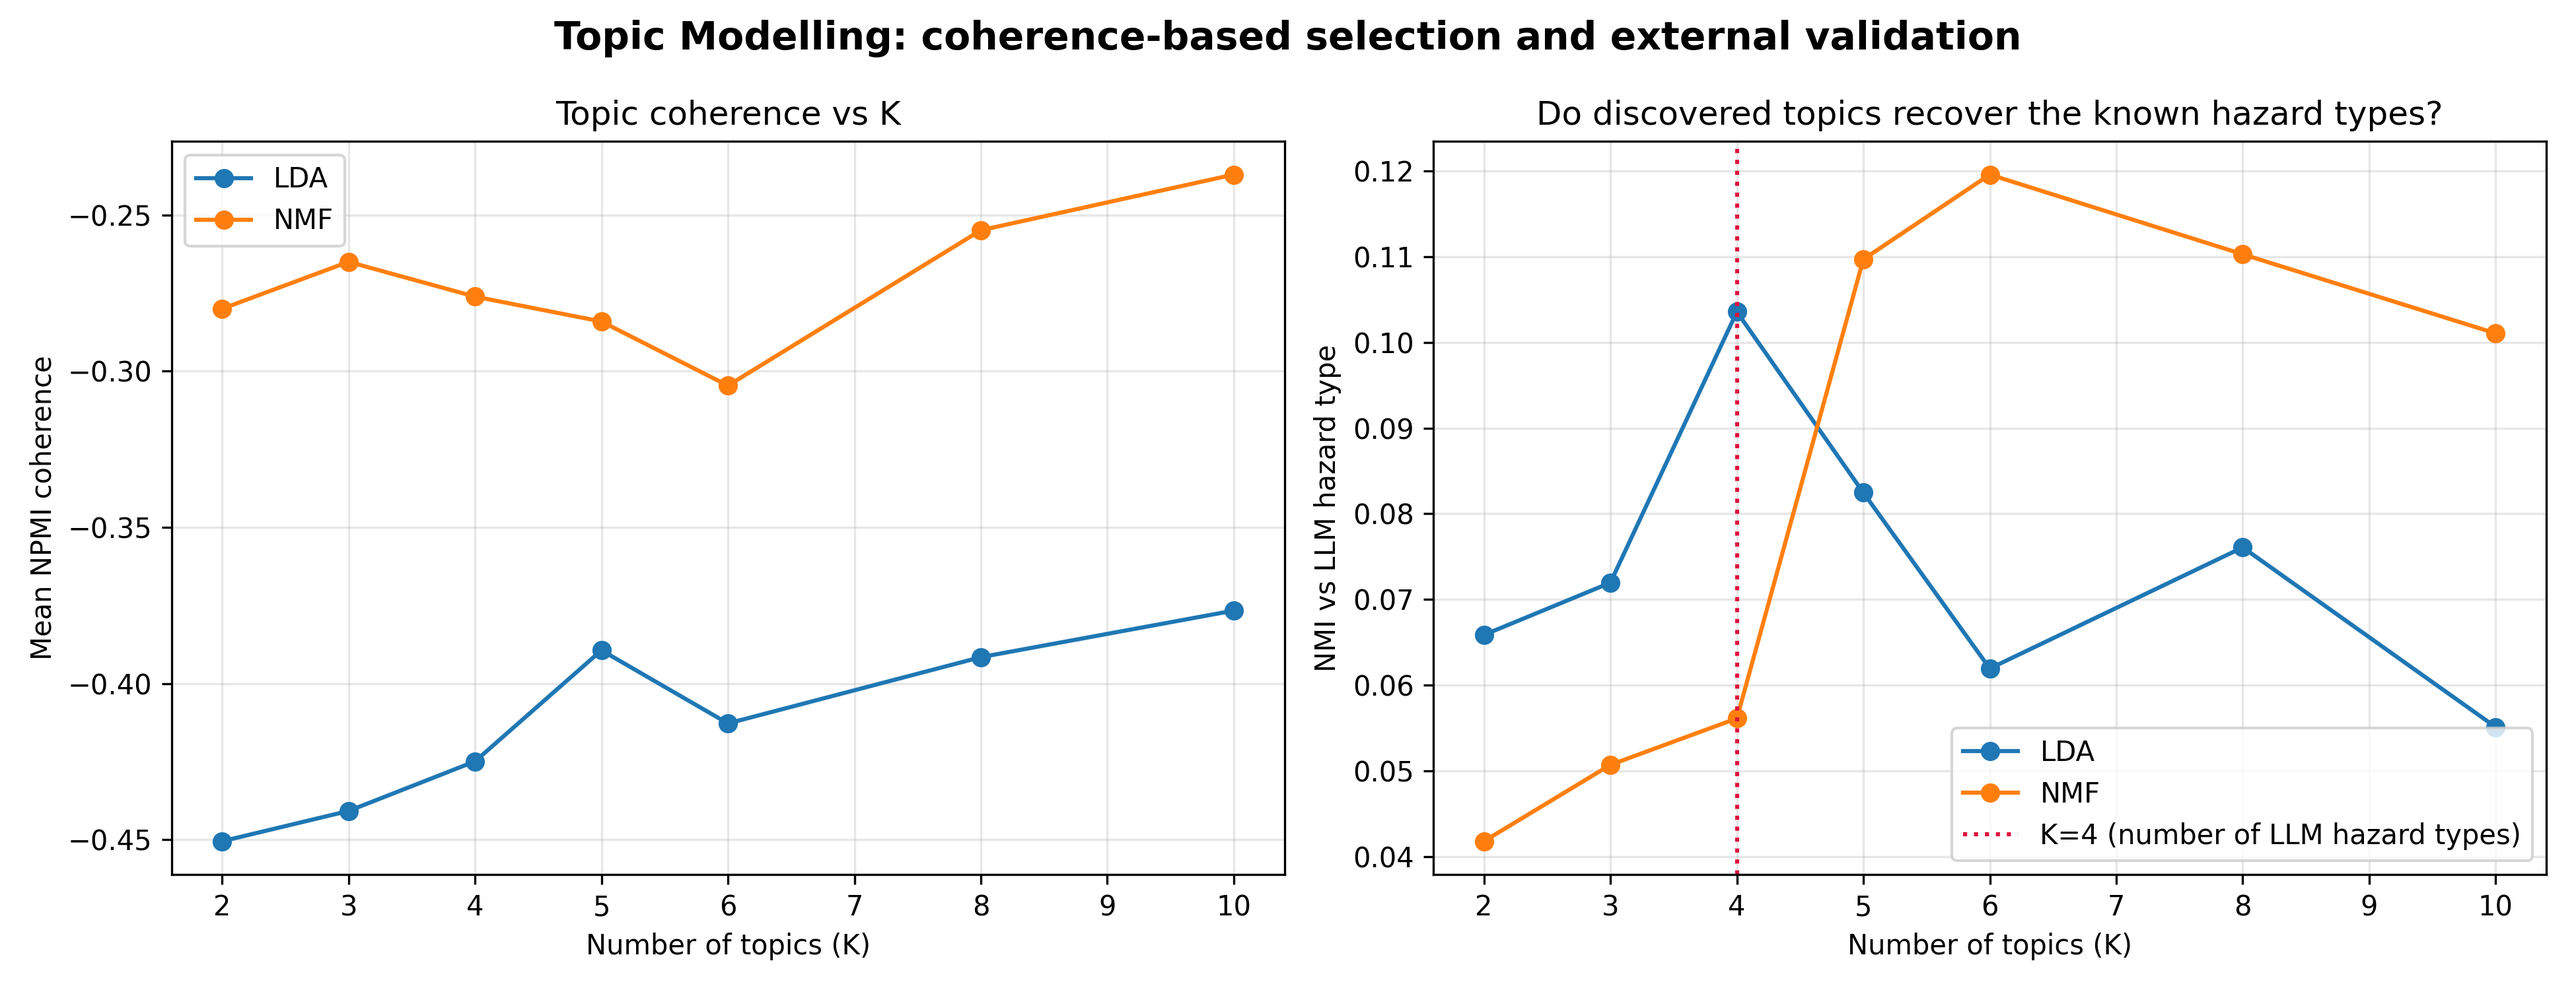
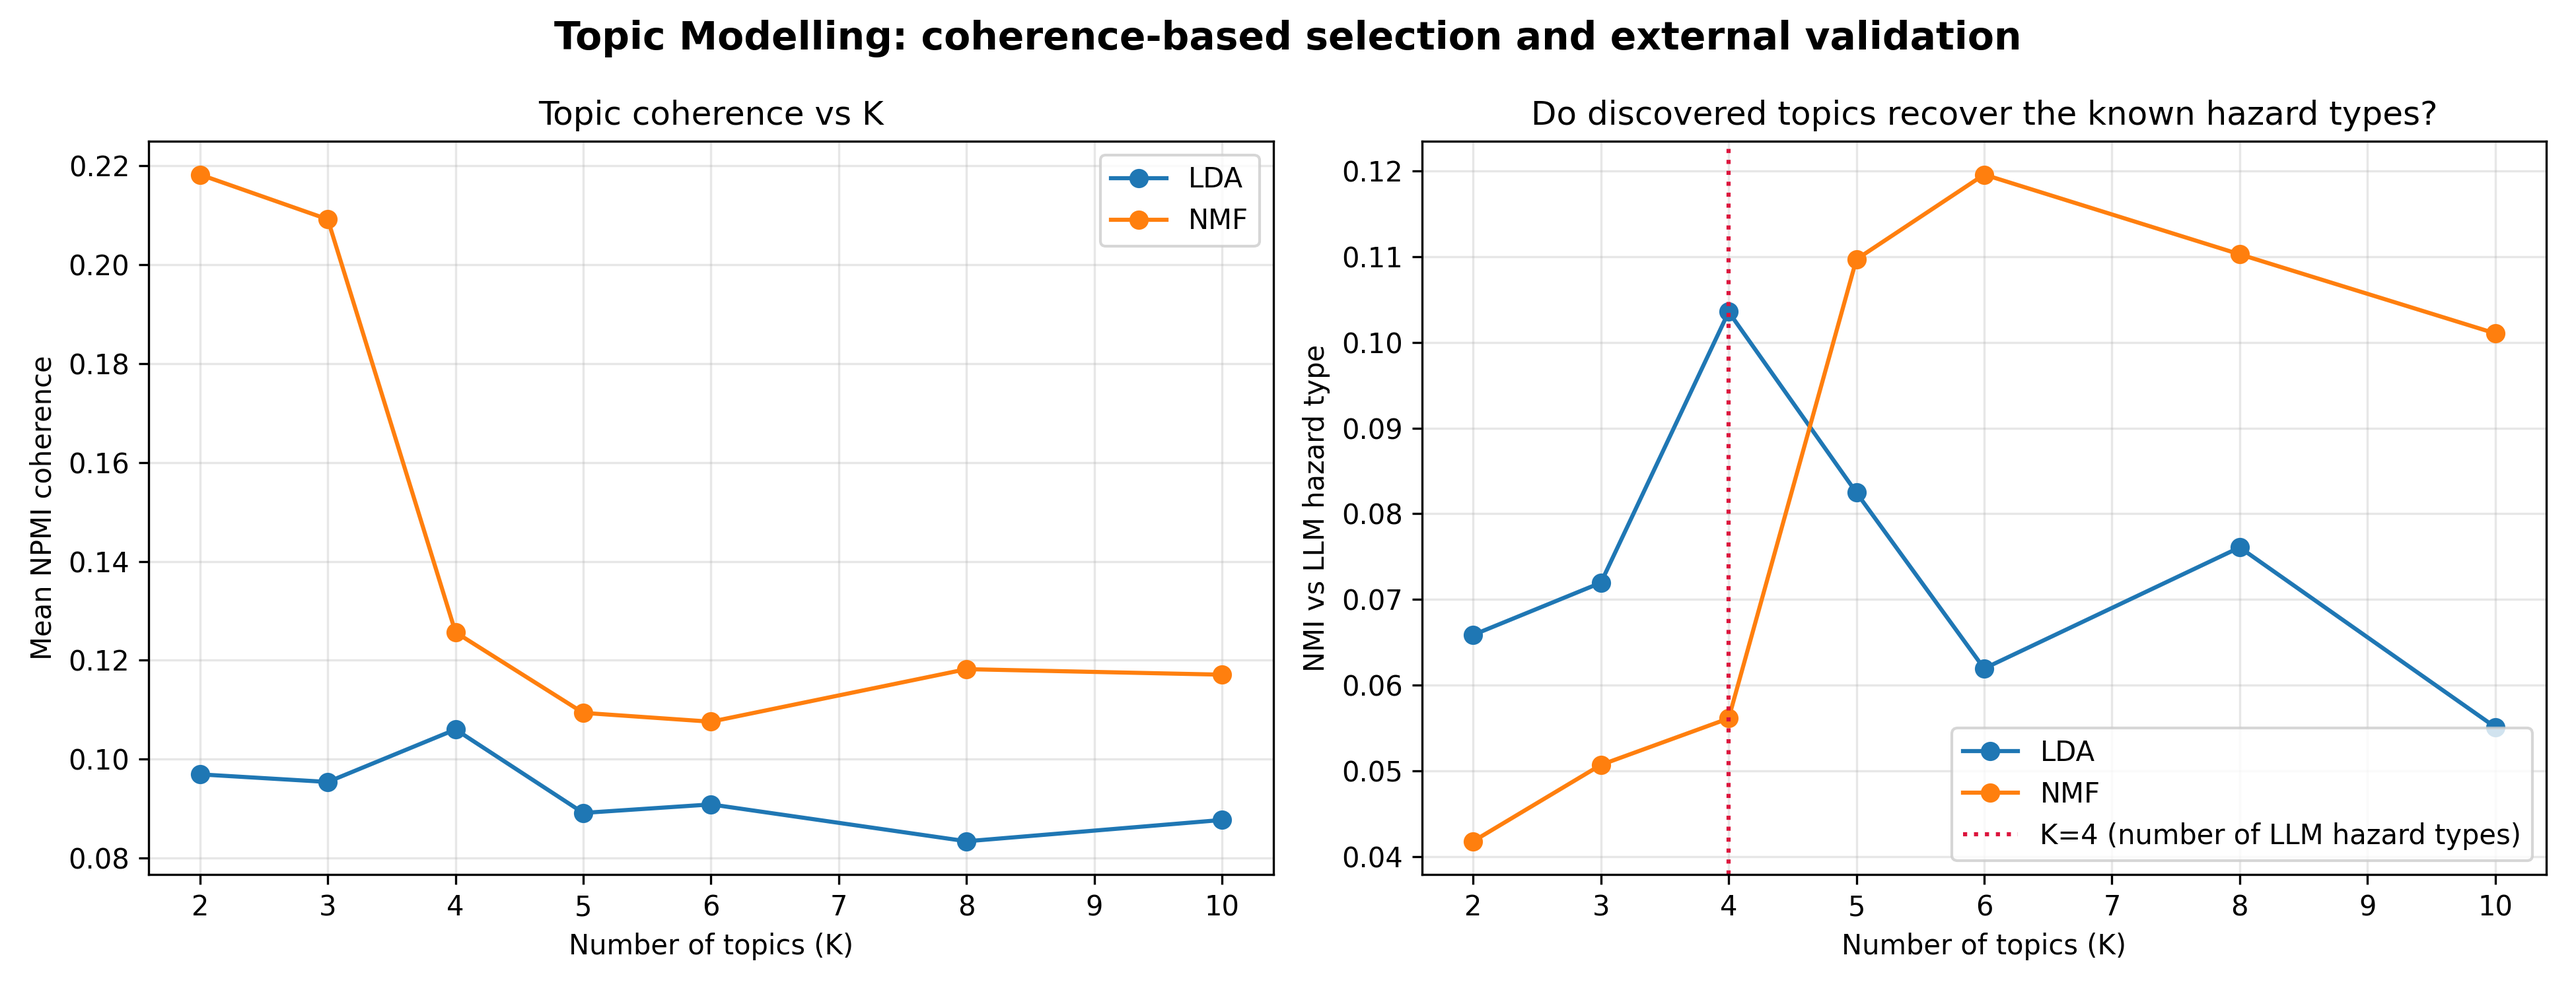
Refactor data loading and validation split handling; update model training to use validation data for checkpoint selection

diff --git a/src/sota_model.py b/src/sota_model.py
@@ -123,12 +123,18 @@ def load_tokenizer(model_nm="microsoft/deberta-v3-base"):
 
 def run_sota_training(train_df, test_df, epochs=3, lr=2e-5, batch_size=8,
                       asymmetric_weight=None, loss_variant=None, gamma=None,
-                      return_tokenized=False):
+                      return_tokenized=False, eval_df=None):
     """
     Fine-tunes DeBERTa-v3 with the asymmetric safety loss.
 
     Checkpoint selection uses cfg.CHECKPOINT_METRIC (F2), not recall — recall alone
     is maximised by predicting every review a hazard.
+
+    `eval_df` is the split used for checkpoint selection (and whatever
+    `trainer.evaluate()` scores afterwards). Pass the validation split here so the
+    test split stays out of every selection decision. If None, falls back to
+    `test_df` — which makes the test-split numbers selection-biased ("in-selection")
+    and should only be used for quick experiments, never reported results.
     """
     if asymmetric_weight is None:
         asymmetric_weight = cfg.ASYMMETRIC_WEIGHT
@@ -145,8 +151,13 @@ def run_sota_training(train_df, test_df, epochs=3, lr=2e-5, batch_size=8,
     model = AutoModelForSequenceClassification.from_pretrained(model_nm, num_labels=1)
     model.to(cfg.DEVICE)
 
+    if eval_df is None:
+        print("    [warn] no eval_df given — checkpoint selection will use the TEST "
+              "split, making its numbers in-selection. Pass the validation split.")
+        eval_df = test_df
+
     train_tokenized = tokenize_split(train_df, tokenizer)
-    test_tokenized = tokenize_split(test_df, tokenizer)
+    eval_tokenized = tokenize_split(eval_df, tokenizer)
 
     # Micro-batching: keep the effective batch at `batch_size` while capping the
     # per-device batch at 4 so activations fit on MPS.
@@ -177,7 +188,7 @@ def run_sota_training(train_df, test_df, epochs=3, lr=2e-5, batch_size=8,
         model=model,
         args=training_args,
         train_dataset=train_tokenized,
-        eval_dataset=test_tokenized,
+        eval_dataset=eval_tokenized,
         compute_metrics=compute_metrics,
         asymmetric_weight=asymmetric_weight,
         loss_variant=loss_variant,
@@ -188,6 +199,10 @@ def run_sota_training(train_df, test_df, epochs=3, lr=2e-5, batch_size=8,
     trainer.train()
 
     if return_tokenized:
+        # The reporting split is always test_df, tokenized separately from the
+        # eval split so downstream evaluation never accidentally scores validation.
+        test_tokenized = tokenize_split(test_df, tokenizer) if eval_df is not test_df \
+            else eval_tokenized
         return trainer, tokenizer, test_tokenized
     return trainer
 

diff --git a/src/topic_model.py b/src/topic_model.py
@@ -177,7 +177,9 @@ def fit_one(texts, k, algo, count_vec, tfidf_vec, X_count, X_tfidf, random_state
         )
         doc_topic = model.fit_transform(X_count)
         features = count_vec.get_feature_names_out()
-        coherence_matrix = (X_count > 0)
+        # int cast is load-bearing: on a boolean sparse matrix, cols.T @ cols
+        # saturates every co-occurrence count at 1, which silently corrupts NPMI.
+        coherence_matrix = (X_count > 0).astype(np.int32)
     else:
         model = NMF(
             n_components=k, random_state=random_state,
@@ -187,7 +189,8 @@ def fit_one(texts, k, algo, count_vec, tfidf_vec, X_count, X_tfidf, random_state
         features = tfidf_vec.get_feature_names_out()
         # Coherence is always measured on the count matrix so LDA and NMF are
         # scored on the same footing; vocabularies are shared by construction.
-        coherence_matrix = (X_count > 0)
+        # Same int cast as the LDA branch — boolean matmul saturates at 1.
+        coherence_matrix = (X_count > 0).astype(np.int32)
 
     tw = top_words(model, features)
     coherences = [npmi_coherence(t["indices"], coherence_matrix) for t in tw]
@@ -283,12 +286,12 @@ def run_topic_modeling(k_values=DEFAULT_K_VALUES, output_dir=None, algos=("lda",
     sweep.to_csv(os.path.join(output_dir, "topic_model_sweep.csv"), index=False)
 
     # ---- Winner per algorithm ---------------------------------------------
-    # NPMI coherence tends to rise monotonically with K, so selecting on it alone
-    # just picks the largest K on offer. Degenerate fits (one topic swallowing most
-    # of the corpus) are excluded first, and the coherence-selected and
-    # validation-selected winners are both reported when they disagree — that
-    # disagreement is itself evidence about how far unsupervised coherence can be
-    # trusted as a model-selection criterion.
+    # Coherence alone cannot be trusted as the selection criterion: NMF's highest
+    # coherence sits at K=2, a degenerate fit where one topic holds 95% of the
+    # corpus (few tight topics are "coherent" even when they carry no structure).
+    # Degenerate fits (one topic swallowing most of the corpus) are excluded first,
+    # and the coherence-selected and validation-selected winners are both reported
+    # when they disagree — for LDA they agree on K=4, which is itself a finding.
     detail_frames, crosstabs, lift_frames = [], {}, []
     for algo in algos:
         grp = sweep[sweep.algorithm == algo.upper()]

diff --git a/src/data_pipeline.py b/src/data_pipeline.py
@@ -7,10 +7,18 @@ import config.settings as cfg
 from src.features import enrich
 
 
-def load_and_split_data():
+def load_and_split_data(with_validation=False):
     """
-    Loads the enriched dataset and creates reproducible train/test splits
-    for both tabular and textual structures.
+    Loads the enriched dataset and creates reproducible splits.
+
+    Default: (train, test) — unchanged from the original two-way split.
+
+    `with_validation=True`: (train, val, test). The validation split is carved out
+    of the train split *after* the test split, so the test split is byte-identical
+    in both modes (and identical to the historical one — everything documented about
+    which gold rows fall in the test split still holds). Validation is what
+    checkpoint selection and hyperparameter search are allowed to see; the test
+    split is reserved for reporting only.
     """
     resolved_path = os.path.abspath(cfg.INPUT_DATA_PATH)
     print(f"Resolved absolute path: {resolved_path}")
@@ -28,8 +36,20 @@ def load_and_split_data():
         stratify=df[cfg.TARGET_COLUMN]
     )
 
-    print(f"Data split successfully. Train Size: {len(train_df)} | Test Size: {len(test_df)}")
-    return train_df, test_df
+    if not with_validation:
+        print(f"Data split successfully. Train Size: {len(train_df)} | Test Size: {len(test_df)}")
+        return train_df, test_df
+
+    train_df, val_df = train_test_split(
+        train_df,
+        test_size=cfg.VAL_SIZE,
+        random_state=cfg.RANDOM_STATE,
+        stratify=train_df[cfg.TARGET_COLUMN]
+    )
+
+    print(f"Data split successfully. Train Size: {len(train_df)} | "
+          f"Val Size: {len(val_df)} | Test Size: {len(test_df)}")
+    return train_df, val_df, test_df
 
 
 def load_gold_holdout(path=None, require=True):

diff --git a/main.py b/main.py
@@ -24,8 +24,10 @@ def main():
 
     os.makedirs(cfg.RESULTS_DIR, exist_ok=True)
 
-    # Load and partition dataset
-    train_df, test_df = load_and_split_data()
+    # Load and partition dataset. The validation split is what checkpoint selection
+    # and the Optuna objective see; the test split is never consulted during the
+    # sweep, so its numbers stay honest for the final report.
+    train_df, val_df, test_df = load_and_split_data(with_validation=True)
 
     # 1. Train and evaluate your traditional XGBoost baseline
     train_and_evaluate_baseline(train_df, test_df)
@@ -53,11 +55,14 @@ def main():
             trainer = run_sota_training(
                 train_df=train_df,
                 test_df=test_df,
+                eval_df=val_df,
                 epochs=4,
                 lr=suggested_lr,
                 batch_size=suggested_batch,
             )
 
+            # Scores the validation split (eval_df), not test — the objective must
+            # never see the reporting split.
             eval_metrics = trainer.evaluate()
 
             # PR-AUC, not recall. Recall alone is maximised by flagging every review —

diff --git a/grid_search_analysis.py b/grid_search_analysis.py
@@ -77,7 +77,9 @@ def main():
     print(f"  weights:  {weights}")
     print(f"  total runs: {len(variants) * len(weights)}\n")
 
-    train_df, test_df = load_and_split_data()
+    # The grid compares loss configurations — a selection activity — so it scores
+    # the validation split. The test split stays reserved for the final report.
+    train_df, val_df, test_df = load_and_split_data(with_validation=True)
     os.makedirs(cfg.RESULTS_DIR, exist_ok=True)
 
     results = []
@@ -88,6 +90,7 @@ def main():
             trainer = run_sota_training(
                 train_df=train_df,
                 test_df=test_df,
+                eval_df=val_df,
                 epochs=args.epochs,
                 lr=LR,
                 batch_size=BATCH_SIZE,
@@ -95,7 +98,7 @@ def main():
                 loss_variant=variant,
             )
 
-            m = trainer.evaluate()
+            m = trainer.evaluate()  # scores the validation split (eval_df)
             row = {
                 "variant": variant,
                 "weight": w,

diff --git a/analysis.py b/analysis.py
@@ -62,7 +62,10 @@ def main():
     # -------------------------------------------------------------------------
     # 1. Models
     # -------------------------------------------------------------------------
-    train_df, test_df = load_and_split_data()
+    # Three-way split: checkpoint selection sees only the validation split, so the
+    # test-split numbers reported below are out-of-selection (the gold holdout was
+    # already out-of-everything). Same test split as the historical two-way split.
+    train_df, val_df, test_df = load_and_split_data(with_validation=True)
     lr, batch_size = _load_best_hyperparameters()
 
     baseline_pipeline = train_and_evaluate_baseline(train_df, test_df)
@@ -70,6 +73,7 @@ def main():
     trainer, tokenizer, test_tokenized = run_sota_training(
         train_df=train_df,
         test_df=test_df,
+        eval_df=val_df,
         epochs=DEFAULT_EPOCHS,
         lr=lr,
         batch_size=batch_size,

diff --git a/config/settings.py b/config/settings.py
@@ -47,6 +47,12 @@ TARGET_COLUMN = "is_hazard"
 ASYMMETRIC_WEIGHT = 50.0
 RANDOM_STATE = 42
 TEST_SIZE = 0.2
+# Validation fraction, taken out of the TRAIN split (0.2 * 0.8 = 16% of the data).
+# It exists so that checkpoint selection and the Optuna objective never touch the
+# test split — otherwise the test-split numbers are selection-biased upward. The
+# validation split is carved out of train AFTER the test split, so the test split
+# is byte-identical to the one used before validation existed.
+VAL_SIZE = 0.2
 
 # Decision threshold. Lowered from 0.50 because a missed hazard costs ~100x a false
 # alarm (see COST_FALSE_NEGATIVE / COST_FALSE_POSITIVE in analysis/evaluation_pipeline.py),

diff --git a/CLAUDE.md b/CLAUDE.md
@@ -46,7 +46,10 @@ techniques work/fail, tied to the business problem = 90–100.
   negation_window_flag`.
 - **Modeling code now exists under [src/](src/) and is wired together by [main.py](main.py):**
   - [src/data_pipeline.py](src/data_pipeline.py) — loads `enriched_allergy_hazard_dataset.csv`,
-    stratified train/test split (80/20, `random_state=42`).
+    stratified train/test split (80/20, `random_state=42`); `with_validation=True` further
+    carves a validation split out of train (64/16/20 overall, test split unchanged).
+    Checkpoint selection and the Optuna objective see only the validation split, so the
+    test-split numbers are out-of-selection.
   - [src/baseline_model.py](src/baseline_model.py) — sklearn `Pipeline`: TF-IDF (2500 features,
     English stopwords) on `text` + `StandardScaler` on the tabular/lexicon features, feeding an
     `XGBClassifier`. Reports `classification_report` + confusion matrix. This is the "TF-IDF +
@@ -107,10 +110,16 @@ Build a comparison of text-mining approaches, not a single classifier:
 4. **Topic modeling (LDA/NMF)** — ✅ `src/topic_model.py`. Course technique #2.
 
 ### Topic-modeling findings so far (results/topic_model_*.csv)
-- Selection by coherence alone is unreliable here: NPMI rises monotonically with K, so it
-  always picks the largest K offered. NMF at K∈{2,3,4} is degenerate (one topic holds
-  84–95% of documents). The code therefore excludes degenerate fits and reports both the
-  coherence-selected and validation-selected K.
+- **Intrinsic coherence and extrinsic validation independently agree on K=4 for LDA:**
+  NPMI coherence peaks at K=4 (+0.106) — the same K that maximises NMI-above-null
+  against the LLM hazard types. (An earlier version reported NPMI rising monotonically
+  with K; that was an artifact of a bool-matmul bug in the co-occurrence counts, fixed
+  2026-07-27 — all persisted coherence values are now positive and non-monotonic.)
+- Coherence still cannot be trusted *alone*: NMF's highest coherence is at K=2, a
+  degenerate fit where one topic holds 95% of documents (NMF K∈{2,3,4,5} all have a
+  topic holding >60%). The code excludes degenerate fits first and reports both the
+  coherence-selected and validation-selected K when they disagree (for NMF: coherence
+  picks K=8 among healthy fits, validation picks K=6).
 - Selected: **LDA K=4** and **NMF K=6**.
 - Recovery of the known hazard types is **weak**: purity 0.716 vs a 0.690 majority-class
   baseline; NMI 0.10–0.12 against a shuffle null of 0.006–0.014.
